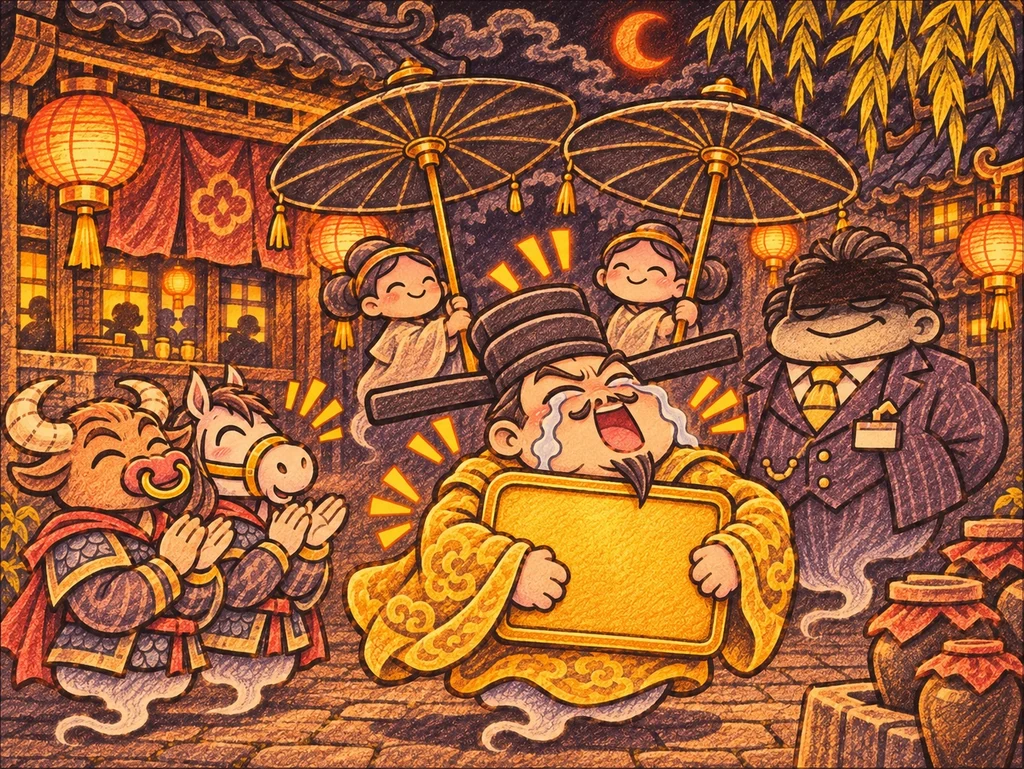
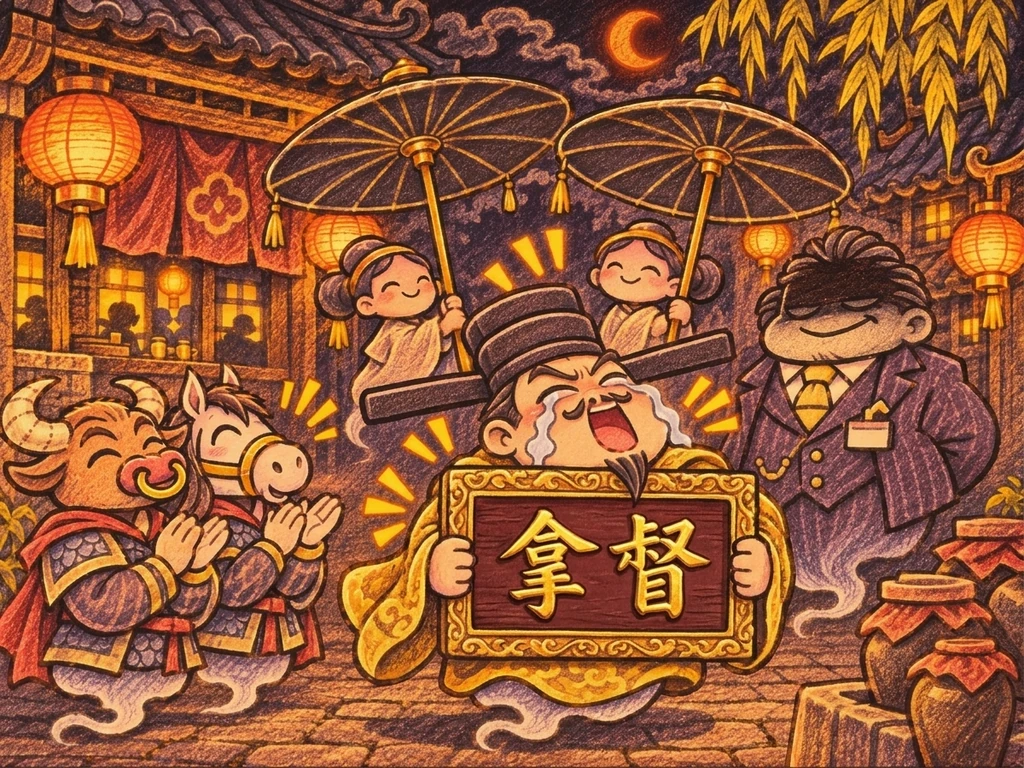
kpi-cg：全遊戲「奈河一杯」；女主辦公室／流放匾面框放大到同男主同比例（字同大同色）；女主酒館換男主同款麻繩木板匾（cg_tavern_f v2）；Dato' 金匾換 v3（字雕喺匾上，取消程序疊字）＋cg_review.json hold 機制；測試跟改（未跑完）

diff --git a/godot/tools/devkit/opening_build.py b/godot/tools/devkit/opening_build.py
@@ -178,7 +178,7 @@ S["joss_shift"] = {"style": "letter", "title": "化寶爐",
 # ---------- 陰間酒館開張 ----------
 S["tav_open"] = {"style": "talk", "bg": "village", "title": "陰間酒館・三更",
  "cg": {"0": {"k": "cg_tavern", "ph": "cg1_huai"}, "13": ""},
- "lines": [T("旁白","中央村一角，一間門口掛著紅燈籠的破酒館，木匾上寫著「奈何一杯」。"),
+ "lines": [T("旁白","中央村一角，一間門口掛著紅燈籠的破酒館，木匾上寫著「奈河一杯」。"),
   T("三更嬸","新村長？聽說你不喝孟婆的湯。"),
   T("{主角}","那碗東西像茶水間的杯底。"),
   T("三更嬸","（大笑）好！我開了一百年，第一次有人敢講真話。我這裡的孟婆湯 Lite，有成分表。"),
